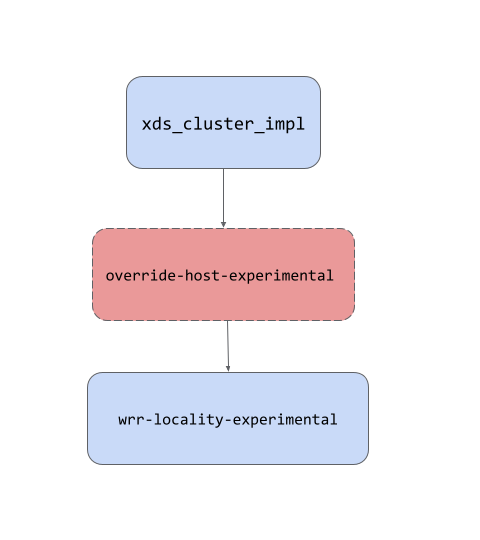
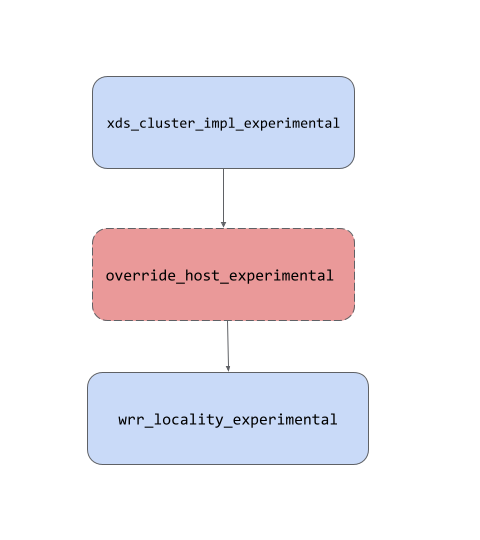
address review comments - next set2

Changed region(s): [[0.1875, 0.1185, 0.75, 0.3259], [0.4688, 0.7704, 0.5, 0.8]]

diff --git a/A55-xds-stateful-session-affinity.md b/A55-xds-stateful-session-affinity.md
@@ -87,8 +87,11 @@ A sample configuration is as follows:
 `name` is the name of the cookie used in this feature.
 
 `path` is the path for which this cookie is applied. **Note:** the path value
-here needs to match any path specified in a RouteConfiguration when route
-based [Filter Config Override][filter_config_override] is used.
+here needs to be consistent with any path specified in a RouteConfiguration
+when route based [Filter Config Override][filter_config_override] is used.
+As an example, if this `path` value is `/Service1/Method2` and the path
+specified in the route based filter config override is `/Service3/Method4`
+then the filter will never be applied.
 
 
 `ttl` is the time-to-live for the cookie. It is set on the cookie but will not
@@ -138,9 +141,9 @@ the CDS update when unsupported values are present, however it was discarded
 because of the difficulty in using such configuration in mixed deployments.
 
 The `override_host_status` value is included in the config update sent to
-the `“cluster_resolver_experimental”` policy which passes down the update to
-the `“xds_cluster_impl”` policy where it is used to create the additional
-child policy as described below.
+the `xds_cluster_resolver_experimental` policy which passes down the update to
+the `xds_cluster_impl_experimental` policy where it is used to create the
+additional child policy as described below.
 
 Also note that [common_lb_config][] field is incompatible with the new
 [load_balancing_policy][] field used for custom LB policies which means custom
@@ -223,13 +226,13 @@ this value to route the RPC appropriately. The required logic needs to be
 implemented in a new and separate LB policy at an appropriate place in the
 hierarchy.
 
-RPC load reporting happens in the `“xds_cluster_impl”` policy and we do want
-all RPCs to be included in the load reports. And this policy conditionally
-routes an RPC based on the `override-host` value if present, or else delegates
-to the currently configured LB policy. Hence the new policy needs to be just
-below the `“xds_cluster_impl”` as its child policy. Let's call this new policy
-`“override-host-experimental”`. This policy contains subchannel management,
-endpoint management, and RPC routing logic as follows:
+RPC load reporting happens in the `xds_cluster_impl_experimental` policy and
+we do want all RPCs to be included in the load reports. And this policy
+conditionally routes an RPC based on the `override-host` value if present, or
+else delegates to the currently configured LB policy. Hence the new policy
+needs to be just below the `xds_cluster_impl_experimental` as its child policy.
+Let's call this new policy `override_host_experimental`. This policy contains
+subchannel management, endpoint management, and RPC routing logic as follows:
 
 * maintain a map of valid endpoints (or `ResolvedAddresses`) and keep it
   up-to-date based on endpoint updates from the resolver. Let's call this
@@ -320,27 +323,28 @@ for maintaining session affinity. If the new subchannel goes into
 `TRANSIENT_FAILURE`, we just delegate to the child policy.
 
 
-Note that we unconditionally create the `"override_host_experimental"` policy
-as the child of `“xds_cluster_impl”` even if the feature is not configured
-(in which case, it will be a no-op). The policy's config will have a boolean
-field called `enabled` which will be set by the
-`"cluster_resolver_experimental"` policy based on the boolean in its own
+Note that we unconditionally create the `override_host_experimental` policy
+as the child of `xds_cluster_impl_experimental` even if the feature is not
+configured (in which case, it will be a no-op). The policy's config will have
+a boolean field called `enabled` which will be set by the
+`xds_cluster_resolver_experimental` policy based on the boolean in its own
 config which will be set based on whether the
 [`common_lb_config.override_host_status`][or-host-status] field
 in the CDS resource includes UNKNOWN or HEALTHY. The
-`“cluster_resolver_experimental”` policy receives the CDS update and passes
-the boolean via its child (`“priority_experimental”`) to the
-`“xds_cluster_impl”` policy.
+`xds_cluster_resolver_experimental` policy receives the CDS update and passes
+the boolean via its child (`priority_experimental`) to the
+`xds_cluster_impl_experimental` policy.
 
-If the `"override_host_experimental"` policy is disabled, it should still
+If the `override_host_experimental` policy is disabled, it should still
 maintain the `overrideHostMap`, so that it has all of the necessary data
 to start working if it becomes enabled later, but it does not inject its
 own picker when disabled.
 
 
-One of the existing policies (`"wrr-locality-experimental"`, `"weighted_target"`
-or `"ring_hash_experimental"`) is made as the child policy of
-`“override-host-experimental”` as shown in the following diagram.
+One of the existing policies (`wrr_locality_experimental`,
+`weighted_target_experimental` or `ring_hash_experimental`) is made as
+the child policy of `override_host_experimental` as shown in the following
+diagram.
 
 ![LB Policy Hierarchy Diagram](A55_graphics/lb-hierarchy.png)
 
@@ -353,19 +357,20 @@ in its CDS update to the watchers.
 
 * `cds_experimental` policy (which receives the CDS update) copies the value
 into `ClusterResolverConfig` for its child policy
-`cluster_resolver_experimental`. `ClusterResolverConfig` will be modified to
+`xds_cluster_resolver_experimental`. `ClusterResolverConfig` will be modified to
 contain this value.
 
-* `cluster_resolver_experimental` policy copies the value into
+* `xds_cluster_resolver_experimental` policy copies the value into
 `ClusterImplConfig` and passes that via its child policy
 `priority_experimental`.
 
 * `priority_experimental` policy extracts `ClusterImplConfig` from the
 config passed to it and uses that child config for creating its child
-`xds_cluster_impl` policy.
+`xds_cluster_impl_experimental` policy.
 
-* `xds_cluster_impl` extracts `override_host_status` from its config and uses
-that to conditionally create `override-host-experimental` as described above.
+* `xds_cluster_impl_experimental` extracts `override_host_status` from its
+config and uses that to conditionally create `override_host_experimental` as
+described above.
 
 
 
@@ -391,7 +396,7 @@ examples using cookie jar implementations which are available in various
 languages such as Java, Go and Node.js. Wherever possible the
 implementations may also include a reference implementation of an interceptor
 that does cookie management using a cookie jar object. The interceptor
-is instantiated for a session and it processes the `"Set-Cookie"` header
+is instantiated for a session and it processes the `Set-Cookie` header
 in a response to save the cookie, and uses that cookie in subsequent
 requests.
 
